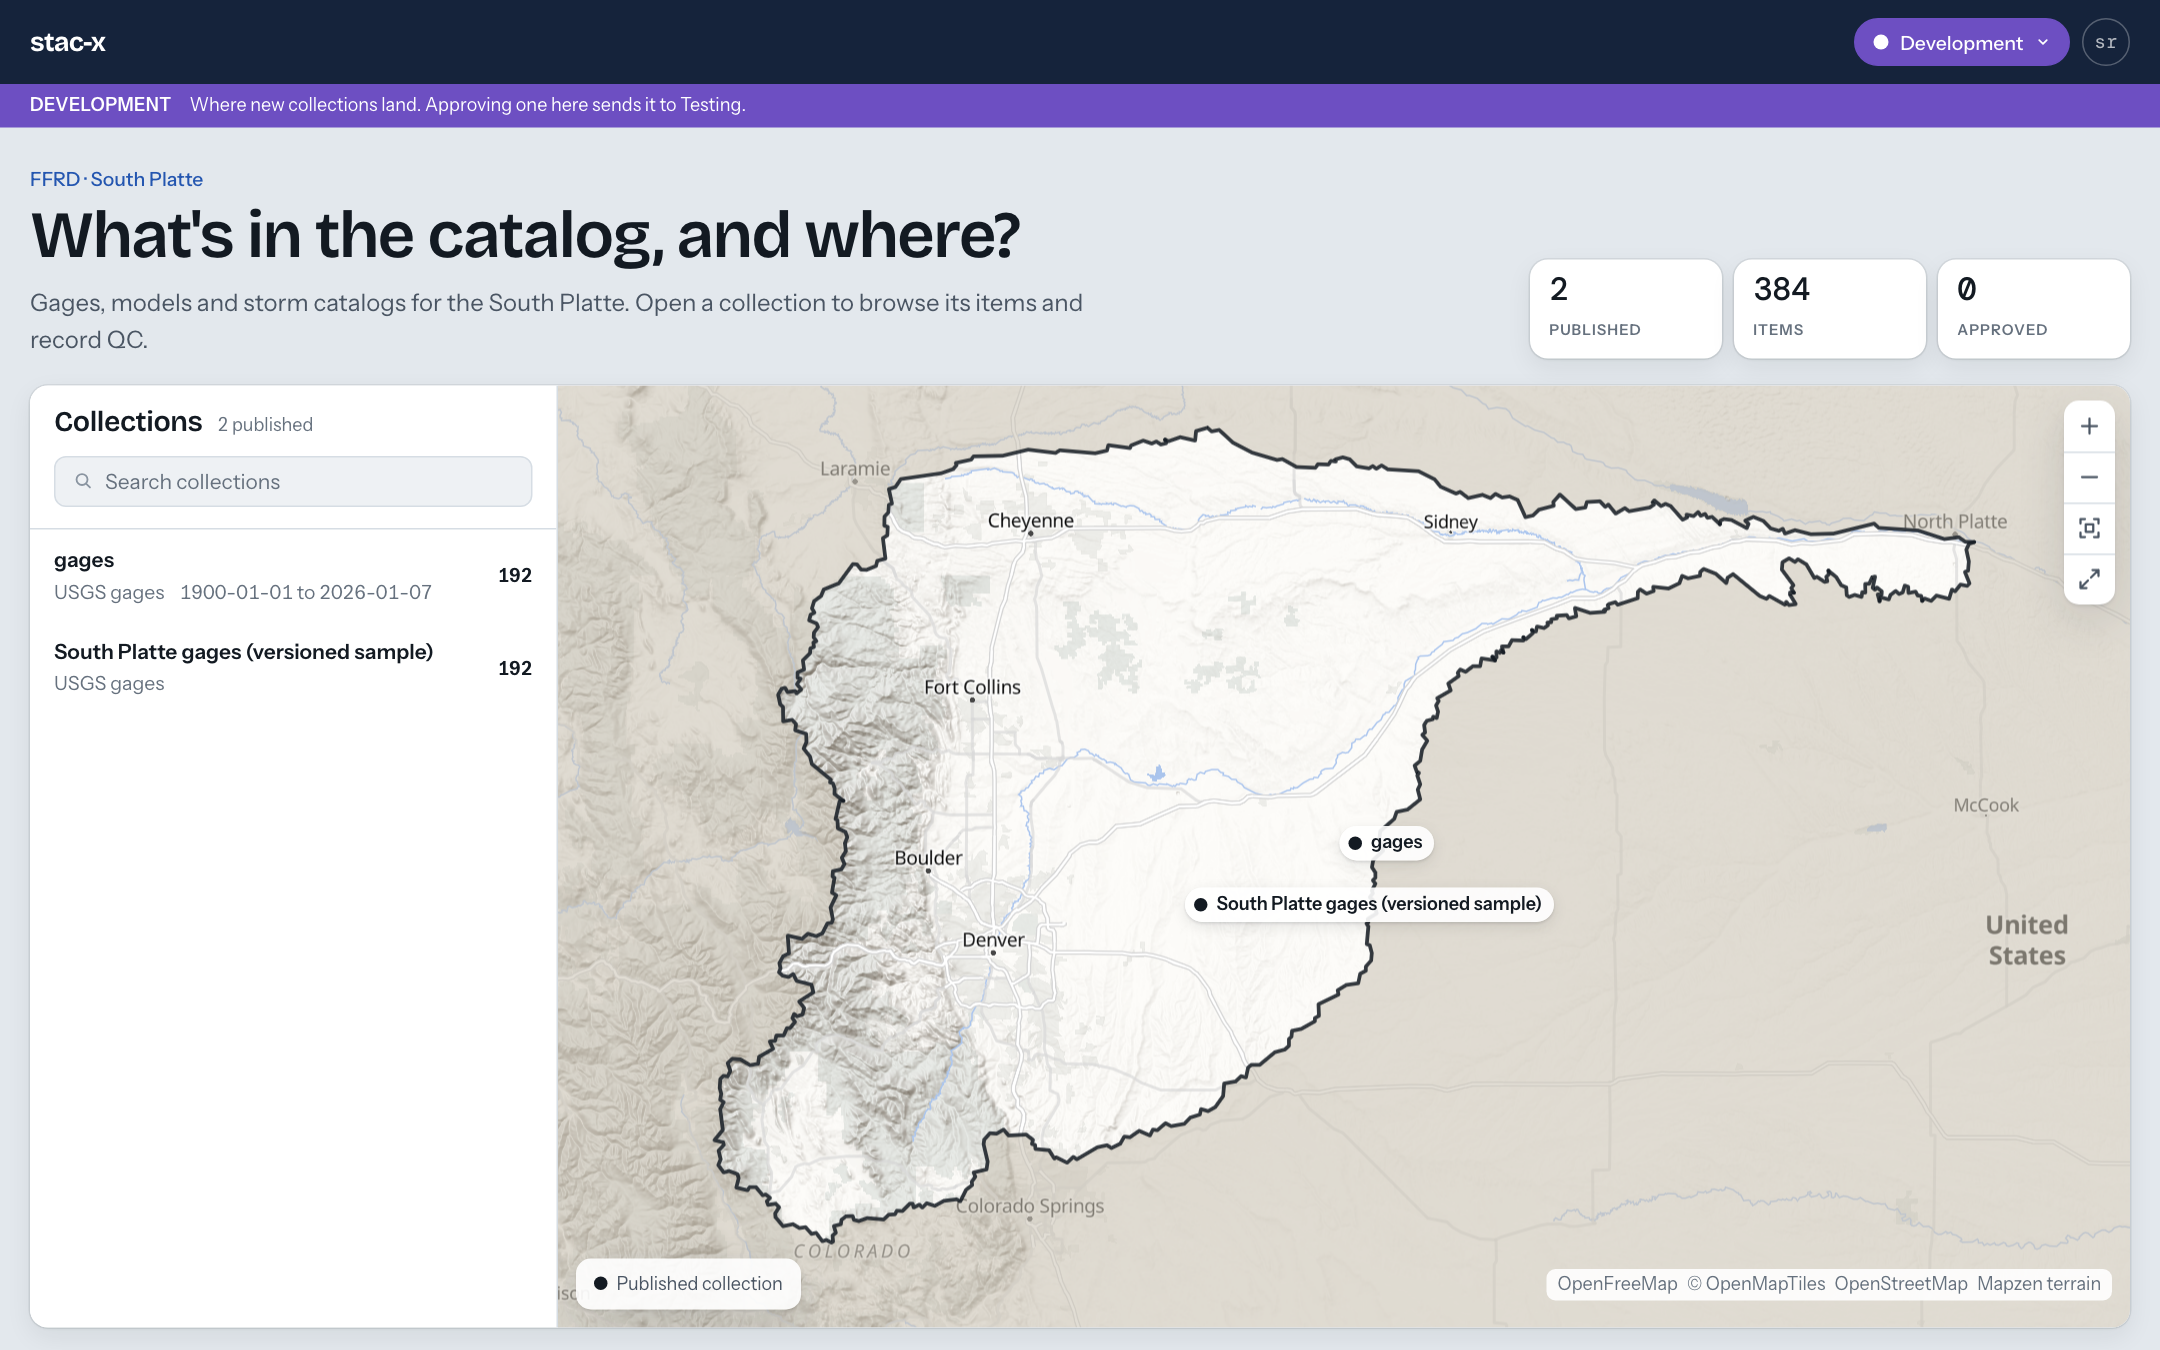
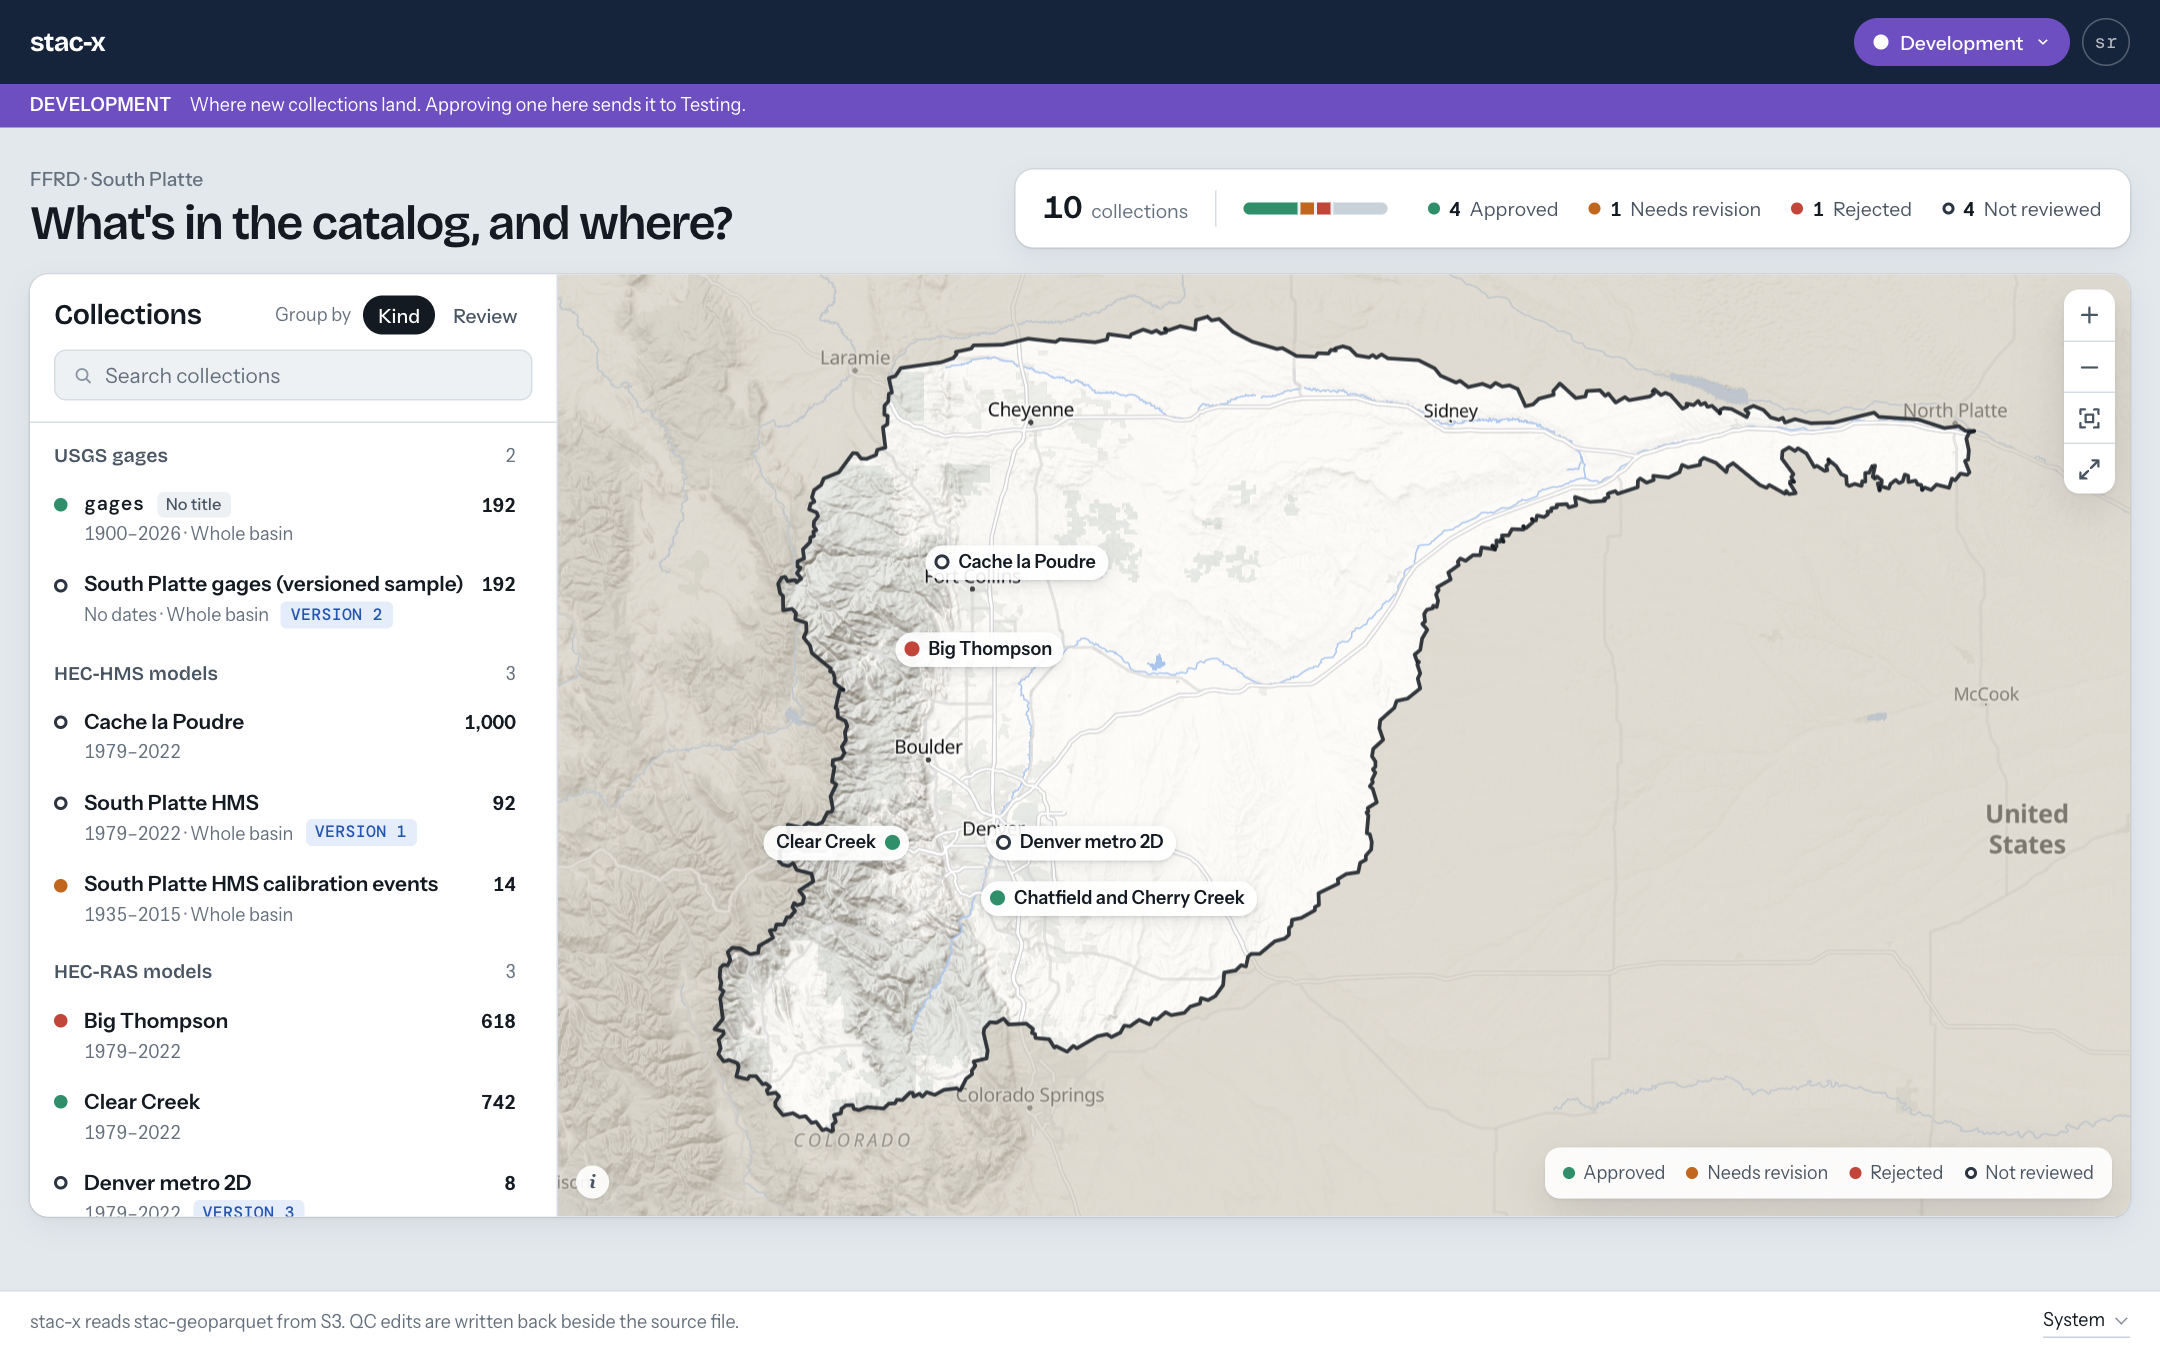
README: retake the homepage screenshot after the redesign
Taken in Development with the local seed data, since this machine can't
reach the bucket. The caption says which collections are real.

diff --git a/README.md b/README.md
@@ -8,7 +8,10 @@ Collection and item pages put things where STAC Browser puts them, since
 that's what people already know (see Page layout below). On a phone the
 columns stack, left column first.
 
-![The stac-x homepage: a map outlining the South Platte basin with every collection pinned, beside the collection list](docs/images/home.png)
+![The stac-x homepage: a map outlining the South Platte basin with each local collection pinned in its review color, beside the collection list grouped by kind](docs/images/home.png)
+
+*Development with sample data. Only the two gage collections are real; the
+models, reservoir runs and storm catalog are made up to fill the page.*
 
 ## Running it
 
